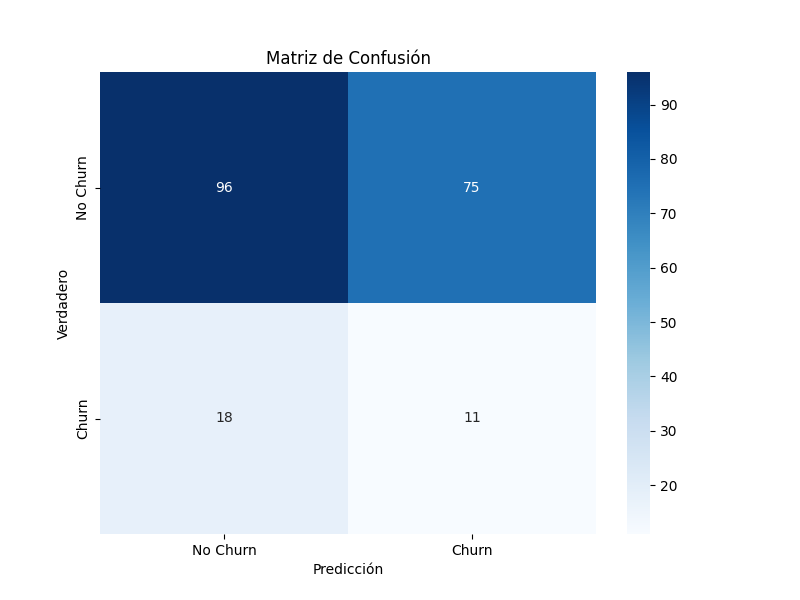
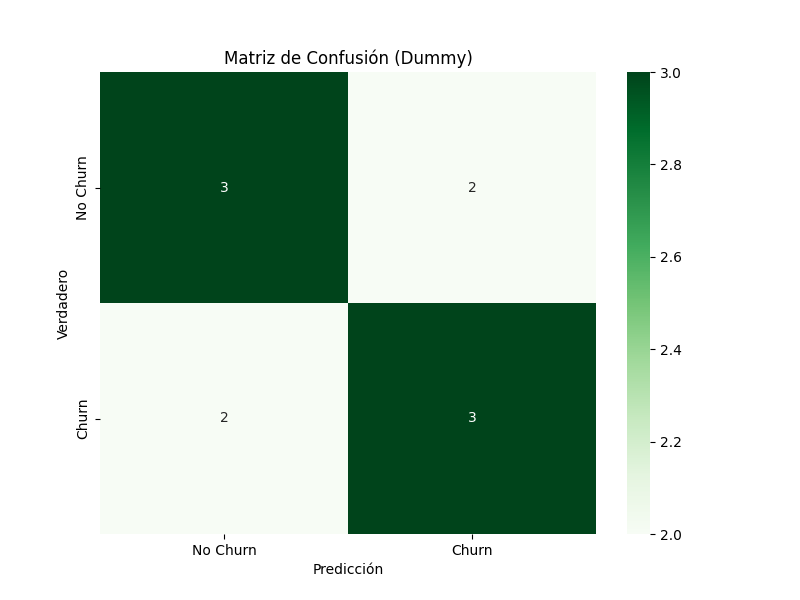
feat: Add dummy artifacts for demo mode

diff --git a/src/create_dummy_artifacts.py b/src/create_dummy_artifacts.py
@@ -1,0 +1,80 @@
+import joblib
+import logging
+import pandas as pd
+import numpy as np
+import matplotlib.pyplot as plt
+import seaborn as sns
+from sklearn.pipeline import Pipeline
+from sklearn.linear_model import LogisticRegression
+from sklearn.metrics import confusion_matrix
+
+from . import config
+from .data_prep import create_preprocessor
+from .utils import save_metadata
+
+# Configuración del logging
+logging.basicConfig(level=logging.INFO, format='%(asctime)s - %(levelname)s - %(message)s')
+
+def create_dummy_artifacts():
+    """
+    Crea artefactos de modelo 'dummy' para fines de demostración.
+    Entrena un modelo simple con 10 filas de datos para asegurar que los artefactos
+    sean válidos y puedan ser cargados por los dashboards.
+    """
+    logging.info("--- Creando artefactos dummy para el demo ---")
+
+    # 1. Crear un pequeño dataset dummy
+    dummy_data = {
+        "age": np.random.randint(18, 70, 10),
+        "tenure": np.random.randint(1, 60, 10),
+        "monthly_charges": np.random.uniform(20, 120, 10).round(2),
+        "contract_type": np.random.choice(["Month-to-month", "One year", "Two year"], 10),
+        "internet_service": np.random.choice(["DSL", "Fiber optic", "None"], 10),
+        "churn": np.random.choice([0, 1], 10)
+    }
+    df = pd.DataFrame(dummy_data)
+    X = df[config.FEATURES]
+    y = df[config.TARGET]
+
+    # 2. Crear y entrenar un pipeline dummy
+    logging.info("Entrenando un modelo dummy con 10 muestras...")
+    preprocessor = create_preprocessor()
+    dummy_model = Pipeline(steps=[
+        ("preprocessor", preprocessor),
+        ("classifier", LogisticRegression()) # Un clasificador simple
+    ])
+    dummy_model.fit(X, y)
+    logging.info("Modelo dummy entrenado.")
+
+    # 3. Guardar el modelo dummy
+    joblib.dump(dummy_model, config.MODEL_PATH)
+    logging.info(f"Modelo dummy guardado en {config.MODEL_PATH}")
+
+    # 4. Crear y guardar metadata dummy
+    dummy_metrics = {
+        "model_name": "DummyModel",
+        "accuracy": 0.5,
+        "f1_score": 0.5,
+        "confusion_matrix": [[3, 2], [2, 3]],
+        "report": {
+            "0": {"precision": 0.5, "recall": 0.6, "f1-score": 0.55, "support": 5},
+            "1": {"precision": 0.5, "recall": 0.4, "f1-score": 0.45, "support": 5}
+        }
+    }
+    save_metadata(dummy_metrics, config.METADATA_PATH)
+
+    # 5. Crear y guardar una matriz de confusión dummy
+    cm = np.array([[3, 2], [2, 3]])
+    plt.figure(figsize=(8, 6))
+    sns.heatmap(cm, annot=True, fmt='d', cmap='Greens', xticklabels=['No Churn', 'Churn'], yticklabels=['No Churn', 'Churn'])
+    plt.xlabel('Predicción')
+    plt.ylabel('Verdadero')
+    plt.title('Matriz de Confusión (Dummy)')
+    plt.savefig(config.CONFUSION_MATRIX_PATH)
+    plt.close()
+    logging.info(f"Matriz de confusión dummy guardada en {config.CONFUSION_MATRIX_PATH}")
+
+    logging.info("--- Artefactos dummy creados exitosamente ---")
+
+if __name__ == "__main__":
+    create_dummy_artifacts()
